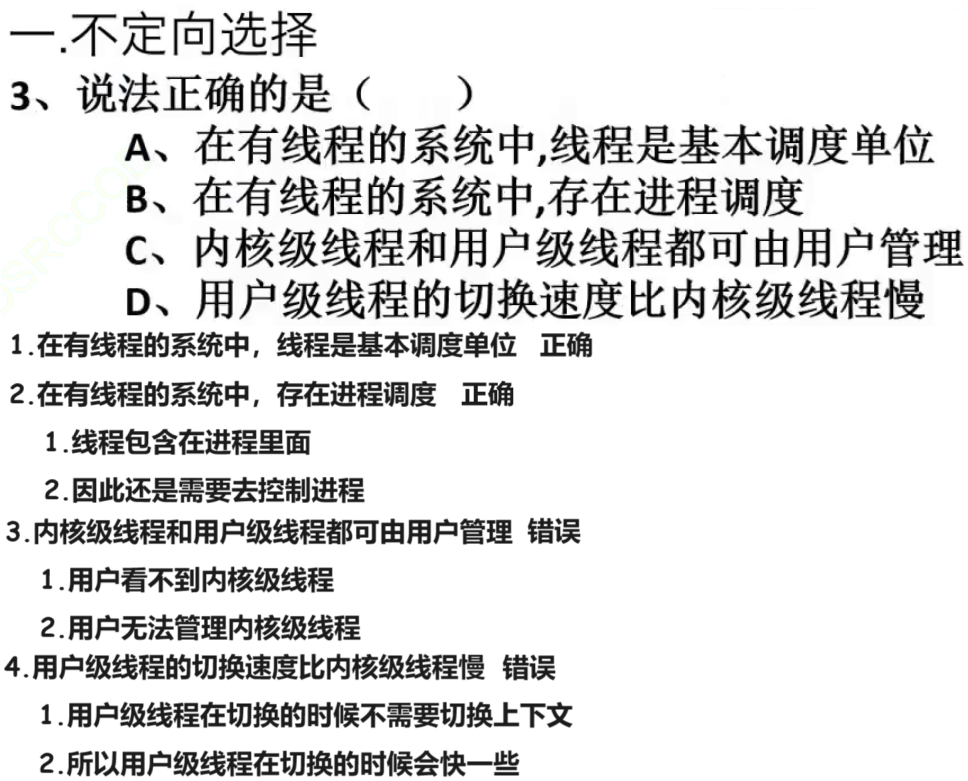
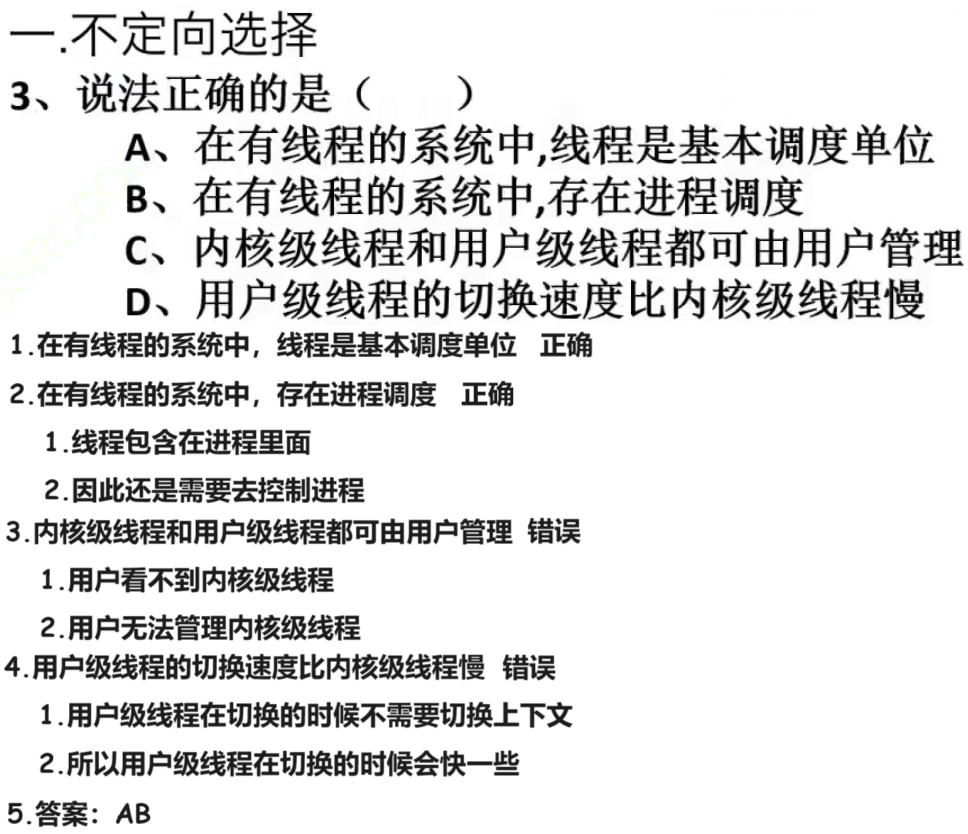
240102

Changed region(s): [[0.0, 0.0, 1.0, 1.0]]

diff --git a/04 每日一题/01 820/05 23/02 操作系统部分/01 不定向选择/03 线程 240102/02 Doc.md b/04 每日一题/01 820/05 23/02 操作系统部分/01 不定向选择/03 线程 240102/02 Doc.md
@@ -12,6 +12,6 @@
 
 # 02 视频解析
 
-<img src="https://cvp.oss-cn-shanghai.aliyuncs.com/picgo/202401021038520.png" alt="image-20240102103814431" style="zoom:50%;" />
+<img src="https://cvp.oss-cn-shanghai.aliyuncs.com/picgo/202401021133575.png" alt="image-20240102113359485" style="zoom: 50%;" />
 
 
